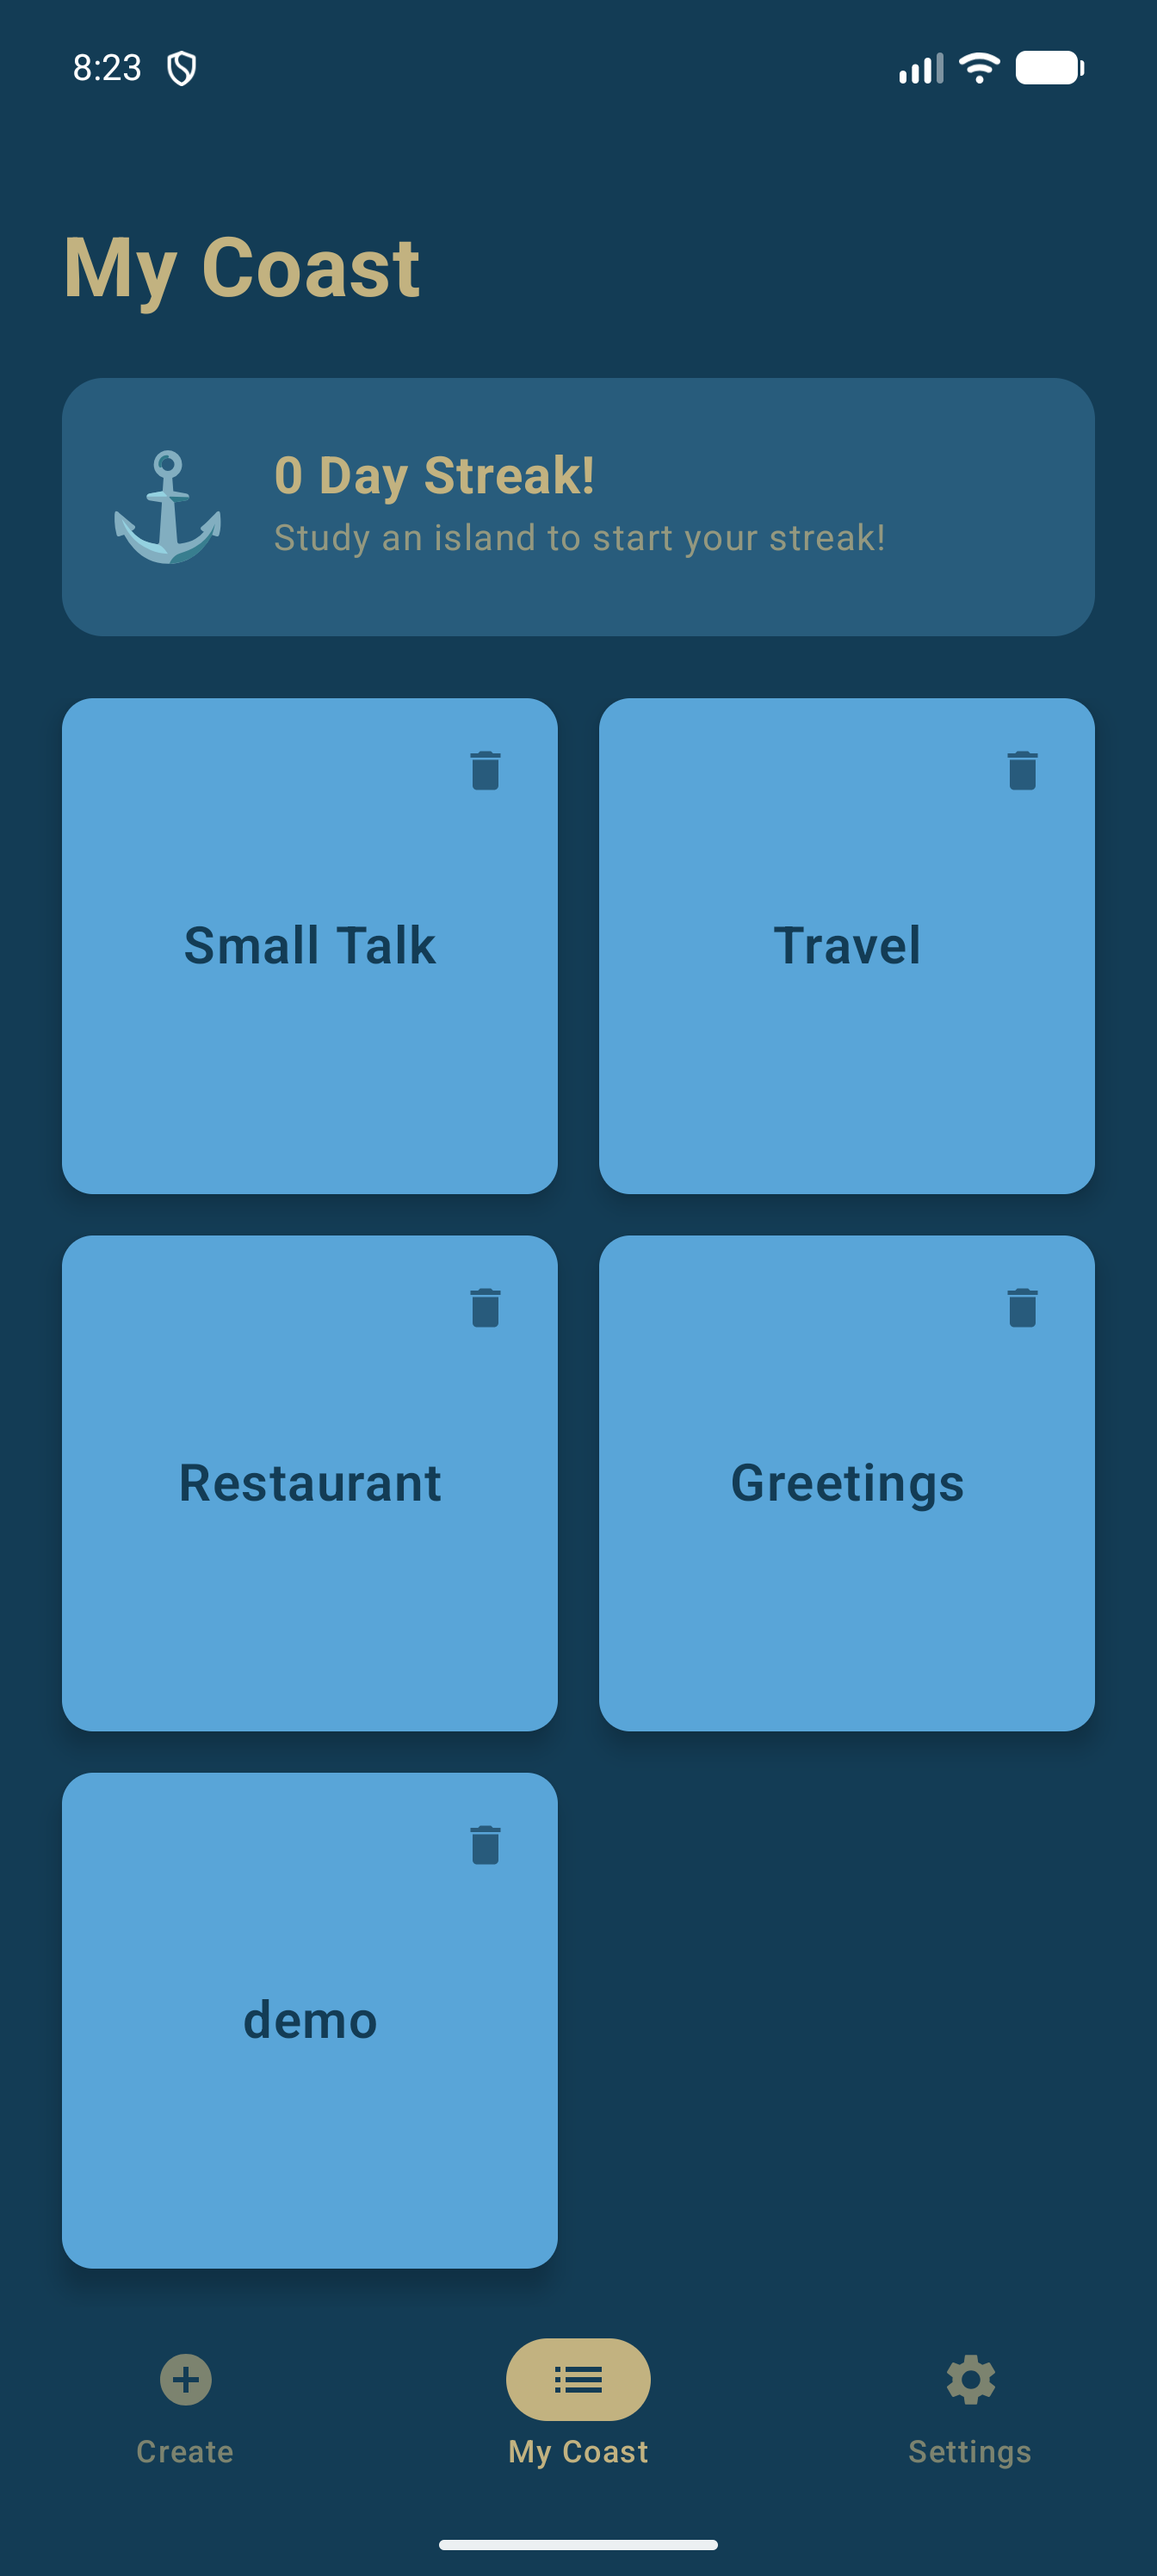
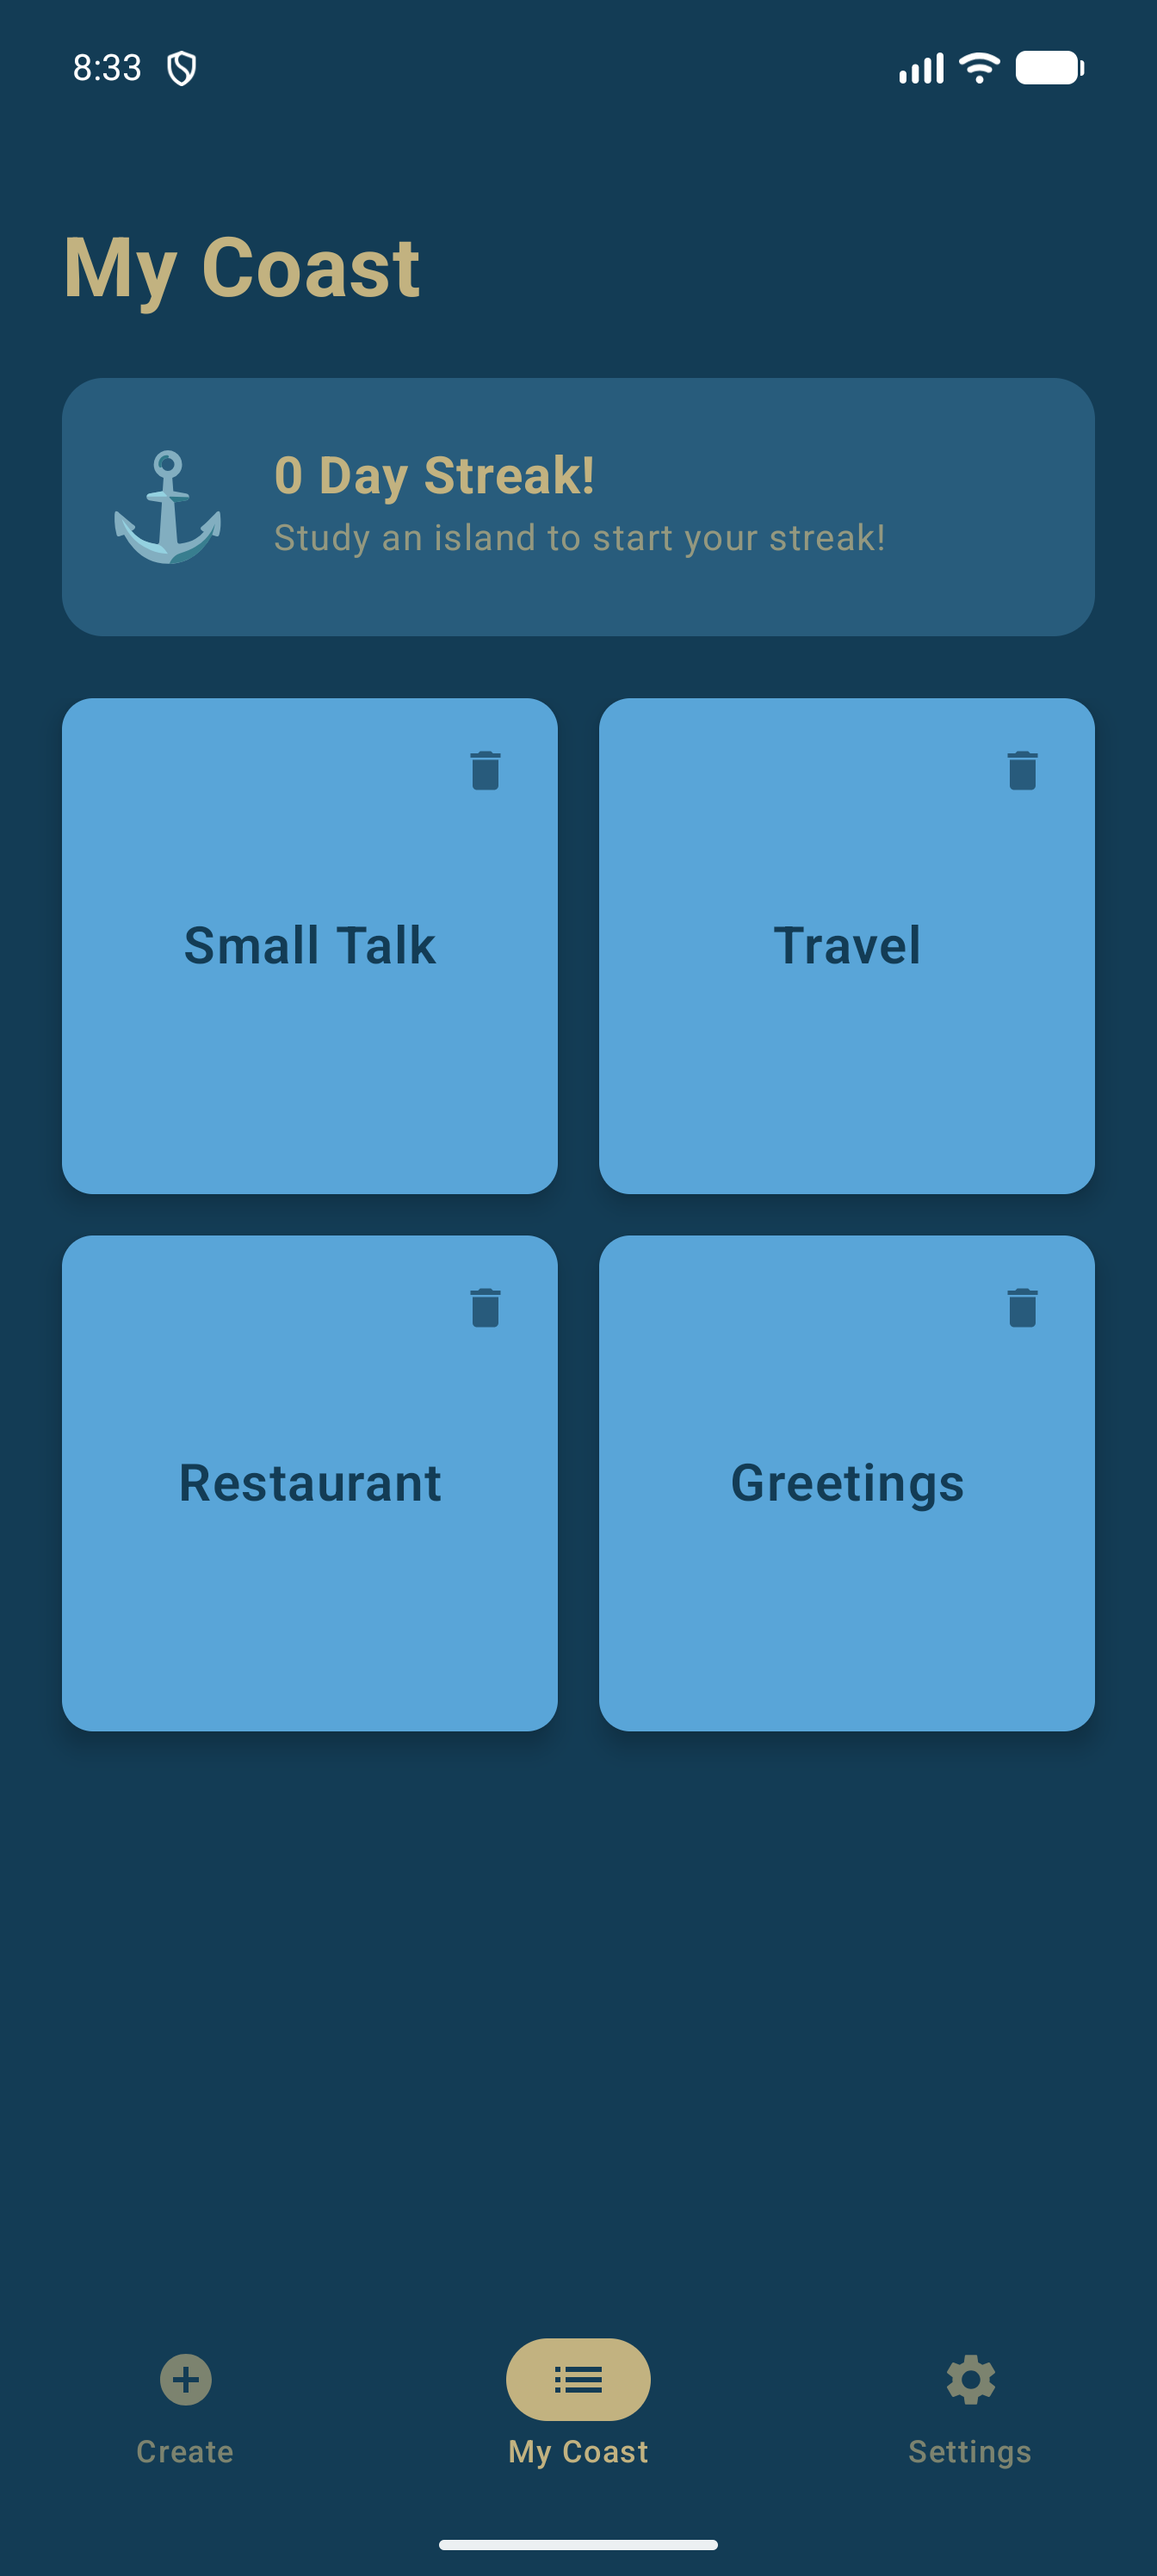
Auto-hide save feedback after 5 seconds and refresh My Coast screenshot
The Create screen's result card now disappears after RESULT_VISIBLE_MILLIS;
a new save restarts the timer. Retake the My Coast screenshot without the
leftover demo island.

Changed region(s): [[0.0312, 0.6838, 0.5, 0.9014]]

diff --git a/app/src/main/java/com/andreaserick/languagecoast/ui/create/CreateViewModel.kt b/app/src/main/java/com/andreaserick/languagecoast/ui/create/CreateViewModel.kt
@@ -11,12 +11,17 @@ import com.andreaserick.languagecoast.data.TranslationRequest
 import com.andreaserick.languagecoast.data.Translator
 import dagger.hilt.android.lifecycle.HiltViewModel
 import kotlinx.coroutines.CancellationException
+import kotlinx.coroutines.Job
+import kotlinx.coroutines.delay
 import kotlinx.coroutines.flow.first
 import kotlinx.coroutines.launch
 import javax.inject.Inject
 
 /** Category used for manual cards when the user leaves the category blank. */
 const val DEFAULT_MANUAL_CATEGORY = "My Words"
+
+/** How long the save feedback card stays on screen. */
+const val RESULT_VISIBLE_MILLIS = 5_000L
 
 data class CreateUiState(
     val nativeSentence: String = "",
@@ -44,6 +49,8 @@ class CreateViewModel @Inject constructor(
     var uiState by mutableStateOf(CreateUiState())
         private set
 
+    private var dismissJob: Job? = null
+
     fun onNativeSentenceChange(value: String) {
         uiState = uiState.copy(nativeSentence = value)
     }
@@ -63,6 +70,7 @@ class CreateViewModel @Inject constructor(
     fun save() {
         val state = uiState
         if (state.nativeSentence.isBlank() || state.isSaving) return
+        dismissJob?.cancel()
         uiState = state.copy(isSaving = true, result = null)
 
         viewModelScope.launch {
@@ -79,6 +87,16 @@ class CreateViewModel @Inject constructor(
             } else {
                 uiState.copy(isSaving = false, result = result)
             }
+            scheduleResultDismissal()
+        }
+    }
+
+    /** Hides the feedback card after [RESULT_VISIBLE_MILLIS], restarting the timer on every save. */
+    private fun scheduleResultDismissal() {
+        dismissJob?.cancel()
+        dismissJob = viewModelScope.launch {
+            delay(RESULT_VISIBLE_MILLIS)
+            uiState = uiState.copy(result = null)
         }
     }
 

diff --git a/app/src/test/java/com/andreaserick/languagecoast/ui/create/CreateViewModelTest.kt b/app/src/test/java/com/andreaserick/languagecoast/ui/create/CreateViewModelTest.kt
@@ -5,6 +5,7 @@ import com.andreaserick.languagecoast.testing.FakeFlashcardRepository
 import com.andreaserick.languagecoast.testing.FakeSettingsRepository
 import com.andreaserick.languagecoast.testing.FakeTranslator
 import com.andreaserick.languagecoast.testing.MainDispatcherRule
+import kotlinx.coroutines.test.advanceTimeBy
 import kotlinx.coroutines.test.runTest
 import org.junit.Assert.assertEquals
 import org.junit.Assert.assertFalse
@@ -95,6 +96,20 @@ class CreateViewModelTest {
 
         assertEquals(SaveResult.Error("AI Translation Failed."), viewModel.uiState.result)
         assertTrue(flashcards.cards.value.isEmpty())
+    }
+
+    @Test
+    fun resultCardIsHiddenAfterTimeout() = runTest {
+        viewModel.onManualModeChange(true)
+        viewModel.onNativeSentenceChange("Hello")
+        viewModel.onTargetSentenceChange("Hola")
+
+        viewModel.save()
+        advanceTimeBy(RESULT_VISIBLE_MILLIS - 1)
+        assertTrue(viewModel.uiState.result is SaveResult.Saved)
+
+        advanceTimeBy(2)
+        assertNull(viewModel.uiState.result)
     }
 
     @Test
